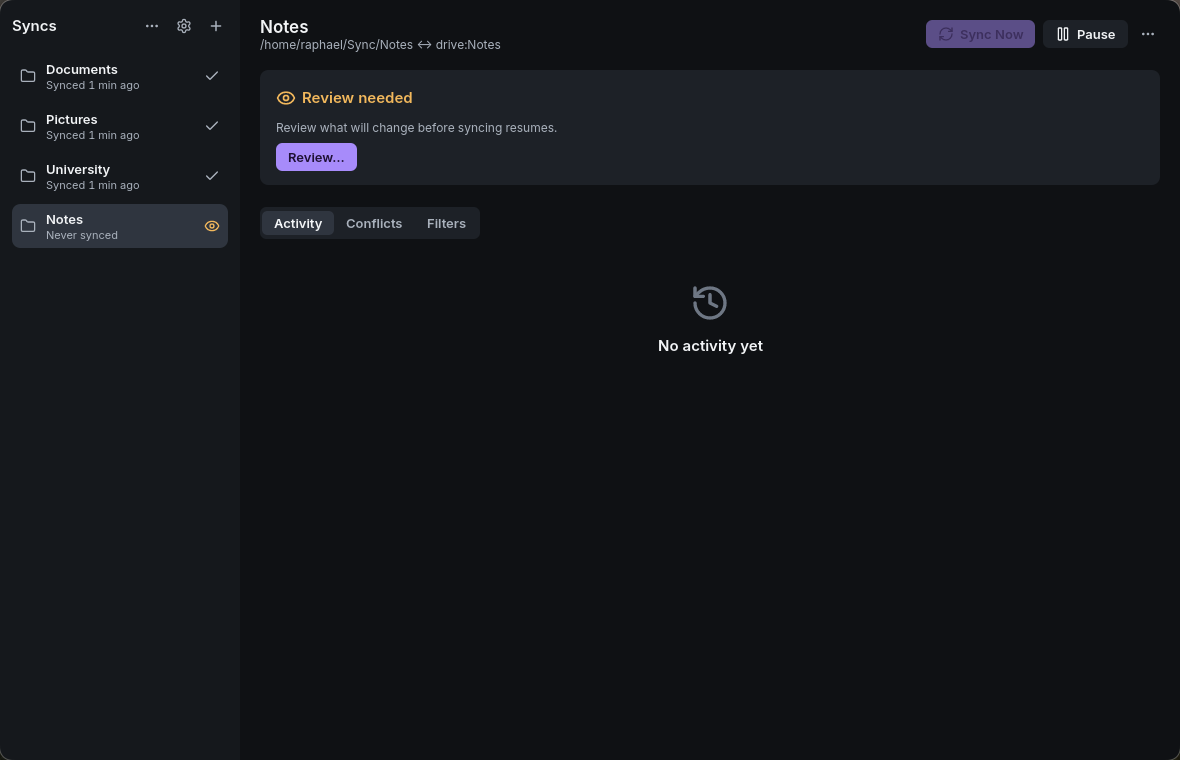
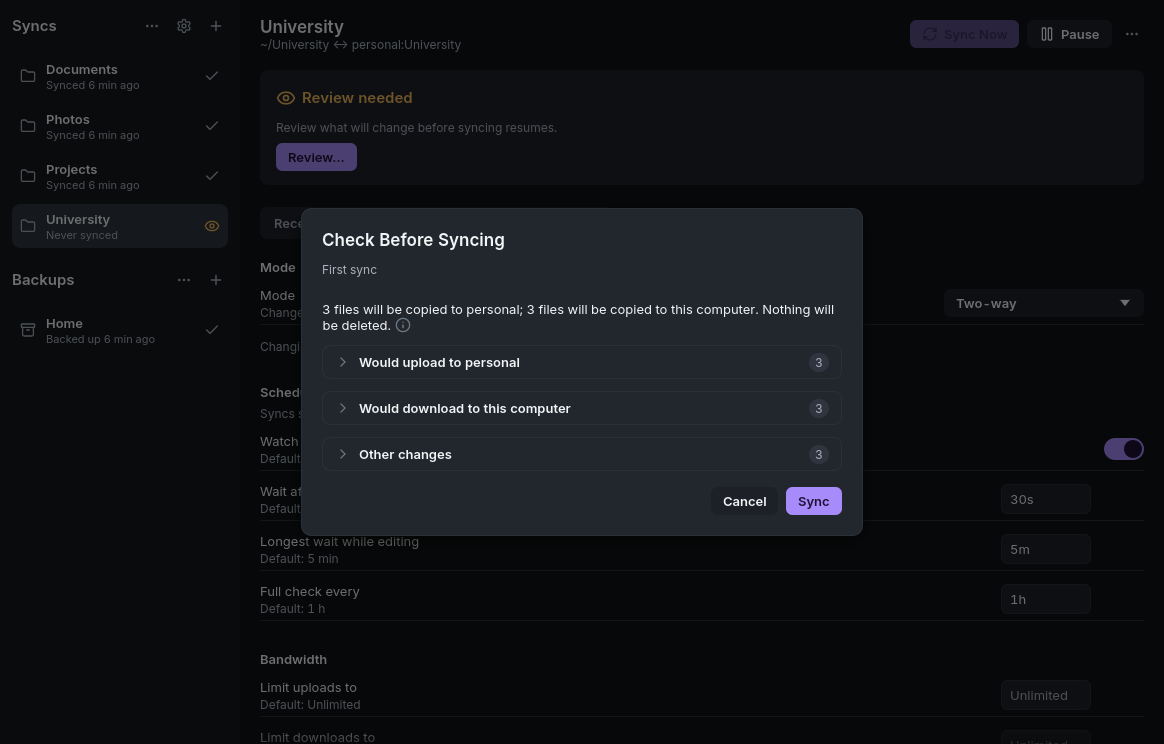
docs: README para quem chega pelo GitHub (#121)
* fix: resumo da revisao termina a frase antes das exclusoes

* docs: README para quem chega pelo GitHub

Tagline, o que voce ganha, por que nao as alternativas, aviso do client ID
antes da instalacao e prints novos com dados de demonstracao.

diff --git a/crates/syncfast-gui/tests/ui_review.rs b/crates/syncfast-gui/tests/ui_review.rs
@@ -200,7 +200,7 @@ fn the_summary_of_an_upload_says_where_files_go_and_that_nothing_is_deleted() {
 
     assert_eq!(
         summary(&preview, "a@b.com"),
-        "3 files will be copied to a@b.com; Nothing will be deleted."
+        "3 files will be copied to a@b.com. Nothing will be deleted."
     );
 }
 
@@ -216,7 +216,7 @@ fn the_summary_counts_each_kind_and_ends_with_the_deletions() {
     assert_eq!(
         summary(&ready_preview(all), "a@b.com"),
         "1 file will be copied to this computer; 2 files will be replaced; \
-         2 files will be renamed; 2 files will be deleted."
+         2 files will be renamed. 2 files will be deleted."
     );
 }
 
@@ -227,7 +227,7 @@ fn the_sheet_shows_the_summary_above_the_sections() {
     let harness = ready_sheet(all);
 
     let line = harness
-        .get_by_label("1 file will be copied to devremote; 2 files will be deleted.")
+        .get_by_label("1 file will be copied to devremote. 2 files will be deleted.")
         .rect();
     let section = harness.get_by_label("Would upload to devremote (1)").rect();
 
@@ -791,7 +791,7 @@ fn the_review_names_the_account_by_its_email() {
 
     assert!(
         harness
-            .query_by_label("2 files will be copied to ada@example.com; Nothing will be deleted.")
+            .query_by_label("2 files will be copied to ada@example.com. Nothing will be deleted.")
             .is_some()
     );
 }

diff --git a/crates/syncfast-gui/src/ui/review.rs b/crates/syncfast-gui/src/ui/review.rs
@@ -107,7 +107,7 @@ pub fn summary(preview: &Preview, remote: &str) -> String {
     if changes.is_empty() {
         deletions
     } else {
-        format!("{changes}; {deletions}")
+        format!("{changes}. {deletions}")
     }
 }
 
@@ -355,7 +355,7 @@ fn summary_line(ui: &mut Ui, palette: &Palette, preview: &Preview, remote: &str)
     let mut job = LayoutJob::default();
     if !changes.is_empty() {
         job.append(
-            &format!("{changes}; "),
+            &format!("{changes}. "),
             0.0,
             TextFormat::simple(theme::body(), palette.text),
         );

diff --git a/README.md b/README.md
@@ -4,28 +4,40 @@
 
 <h1 align="center">syncfast</h1>
 
-<p align="center"><strong>Two-way sync between a folder and Google Drive, with a review before anything is deleted.</strong></p>
+<p align="center"><strong>Google Drive on Linux, the way it should be: real folders on disk, synced both ways, and nothing deleted without your OK.</strong></p>
 
 <p align="center">
   <a href="#install"><strong>Install</strong></a> ·
   <a href="docs/guide/getting-started.md">Guide</a> ·
-  <a href="docs/agents.md">Agents</a> ·
+  <a href="#for-power-users">CLI and agents</a> ·
   <a href="CONTRIBUTING.md">Contributing</a>
 </p>
 
 <p align="center">
-  <img src="assets/screenshot.png" alt="The syncfast window with four syncs and the activity of one of them" width="720">
+  <img src="assets/screenshot.png" alt="The syncfast window: four folders synced with Google Drive and a backup" width="720">
 </p>
 
-## What it is
+## What you get
 
-syncfast keeps folders on your computer in sync with Google Drive, in both directions, from one tray window. It runs [rclone bisync](https://rclone.org/bisync/) for you, on a schedule and whenever local files change, with systemd user units it generates.
+- **Your files, offline.** Pick a folder on your computer and a folder on Drive. Both hold real files, so everything opens without a network, in any app.
+- **Two-way or a copy.** Changes go both ways, or files only go up to Drive and nothing on your computer is touched. A sync starts seconds after you save, and also runs on a schedule.
+- **No surprise deletions.** The first sync tells you in one sentence what it will copy and delete, and waits for your OK. Later, a round that would delete files with no way back stops and asks. Whatever a sync deleted or replaced shows in **Recently Deleted**, one click from coming back.
+- **Encrypted backups.** Keep versioned snapshots of the folders you choose on Drive or on a disk, encrypted with a key only you have, and restore any of them.
+- **Quiet in the background.** A tray icon, a notification when something needs you, and on Nautilus, sync emblems and a **Sync with Google Drive…** menu item.
 
-The first sync of a folder, a changed filter set and any round that would delete many files stop and wait for you to review what will change. Files replaced on this computer are kept for 30 days by default; each sync can change that in its Options tab. Read [PRODUCT.md](PRODUCT.md) for what syncfast is and is not.
+## Why not something else
+
+- **Insync** does this well, and it is paid.
+- **GNOME Online Accounts** shows Drive in Files, but only online: there is no copy on disk.
+- **rclone** is what syncfast runs underneath. On its own it is a command line tool, and a wrong flag can wipe both sides. syncfast fixes the flags and puts a review in front of anything risky.
+
+## Before you start
+
+Google makes every app that reads Drive sign in with its own OAuth client, and a small open source app cannot get a shared one approved. So you create yours, once: it is free, takes about 5 minutes, and syncfast walks you through every step with a link to the right page. [Why and how](docs/guide/google-drive.md).
 
 ## Install
 
-syncfast ships only as a Flatpak. It bundles rclone and needs `flatpak` and your user's systemd, nothing else.
+syncfast ships as a Flatpak for any Linux distribution. It bundles everything it needs.
 
 ```sh
 flatpak remote-add --user --if-not-exists flathub https://dl.flathub.org/repo/flathub.flatpakrepo
@@ -38,26 +50,34 @@ flatpak run io.github.raphael_soares.syncfast
 ## First steps
 
 1. Open syncfast and press **Get Started**.
-2. Add your Google Drive account with your own OAuth client ID ([how](docs/guide/google-drive.md)).
+2. Connect your Google account with the client you created ([how](docs/guide/google-drive.md)).
 3. Choose a folder on this computer; the folder on Drive follows its name. Then **Create Sync**.
-4. Review the first sync. After you confirm it, syncfast keeps both sides equal by itself.
+4. Check what the first sync will do and confirm. From then on syncfast keeps both sides equal by itself.
 
 <p align="center">
   <img src="assets/screenshot-add-sync.png" alt="New Sync: folder on this computer, folder on Google Drive and what to keep" width="45%">
-  <img src="assets/screenshot-review.png" alt="A new sync waiting for the review of its first round" width="45%">
+  <img src="assets/screenshot-review.png" alt="Check Before Syncing: one sentence says what the first sync will copy and that nothing will be deleted" width="45%">
 </p>
 
-The full walkthrough is in [Getting started](docs/guide/getting-started.md). If something stops, see [Troubleshooting](docs/guide/troubleshooting.md) and [Privacy](docs/guide/privacy.md). On Arch with Nautilus, [emblems, Sync Now and Sync with Google Drive…](docs/guide/nautilus.md) are optional.
+The full walkthrough is in [Getting started](docs/guide/getting-started.md), backups in [Backups](docs/guide/backup.md). If something stops, see [Troubleshooting](docs/guide/troubleshooting.md). What syncfast sends and stores is in [Privacy](docs/guide/privacy.md). On Arch with Nautilus, [emblems and the menu items](docs/guide/nautilus.md) are optional.
 
-## AI agents
+<p align="center">
+  <img src="assets/screenshot-backup.png" alt="A backup of three folders to Google Drive with its snapshots" width="720">
+</p>
 
-An agent can do everything you can do in syncfast except sign in. The `syncfast` command takes `--json` everywhere, and `syncfast mcp` serves the same operations as MCP tools:
+## For power users
+
+Everything in the window is also a command: `syncfast` takes `--json` everywhere, and `syncfast mcp` serves the same operations to AI agents as MCP tools.
 
 ```sh
 claude mcp add syncfast -- flatpak run --command=syncfast io.github.raphael_soares.syncfast mcp
 ```
 
-An agent can never confirm a review that deletes files. The guide an agent should follow is [docs/agents.md](docs/agents.md), also printed by `syncfast agent-guide`.
+An agent can do anything you can except sign in, and it can never confirm a review that deletes files. The guide an agent should follow is [docs/agents.md](docs/agents.md), also printed by `syncfast agent-guide`.
+
+## How it works
+
+syncfast runs [rclone bisync](https://rclone.org/bisync/) for syncs and [restic](https://restic.net/) for backups, both bundled in the Flatpak, and schedules them with systemd user units it generates. Your account credentials stay in your rclone config. There is no syncfast account, server or telemetry. [PRODUCT.md](PRODUCT.md) says what syncfast is and is not.
 
 ## License
 
